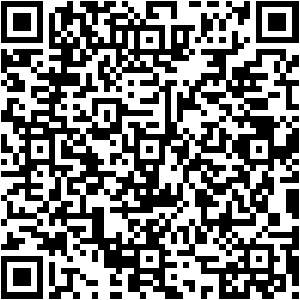
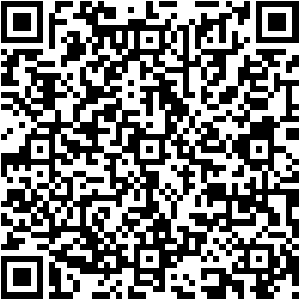
fix(acerca): sustituir asset de codigo QR con la nueva imagen provista

diff --git a/tests/test_acerca_creador_qr.js b/tests/test_acerca_creador_qr.js
@@ -39,7 +39,7 @@ async function run() {
 
     try {
         // 1. Verificación de integridad física del archivo estático
-        const originalPath = 'C:/Users/ASUS/.gemini/antigravity/brain/581be5b5-1e11-4627-a8f4-d7a7d3ec4c42/.user_uploaded/media_1795715297958_3f13119f.png';
+        const originalPath = 'C:/Users/ASUS/.gemini/antigravity/brain/581be5b5-1e11-4627-a8f4-d7a7d3ec4c42/.user_uploaded/media_1795715750158_54c06da7.png';
         const projectAssetPath = path.join(__dirname, '../img/idealandia-creador-qr.png');
 
         const originalBytes = fs.readFileSync(originalPath);
